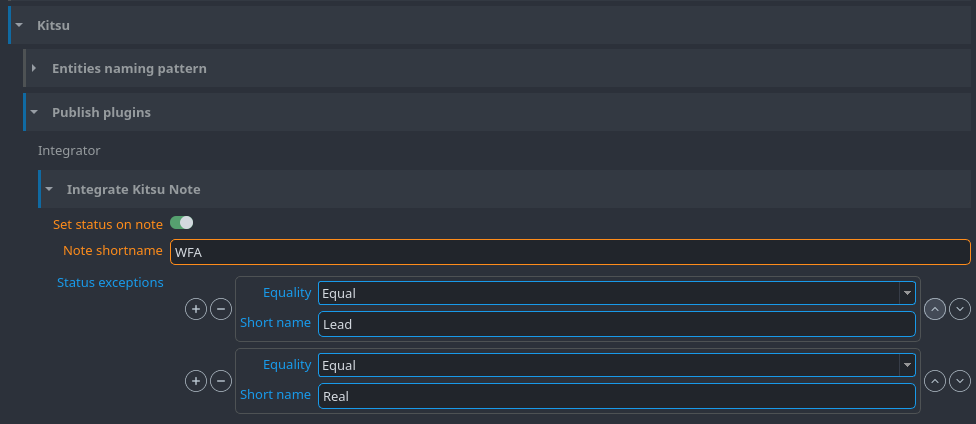
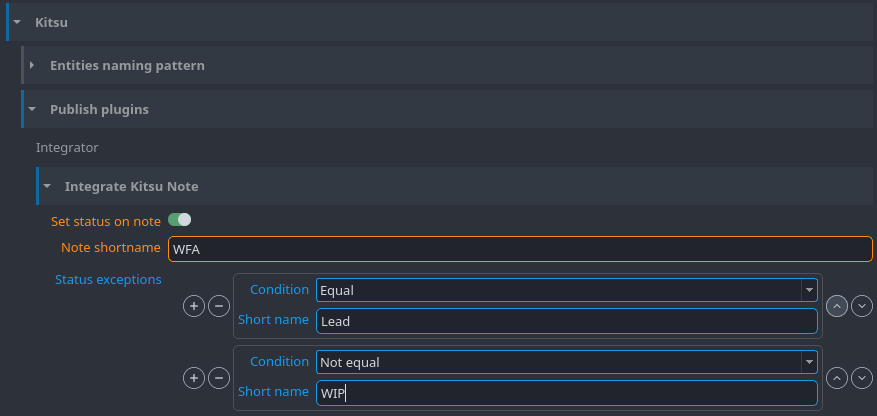
Renaming Equality into Condition, new screenshot with both equal and not equal shown on it

diff --git a/openpype/modules/kitsu/plugins/publish/integrate_kitsu_note.py b/openpype/modules/kitsu/plugins/publish/integrate_kitsu_note.py
@@ -32,10 +32,10 @@ class IntegrateKitsuNote(pyblish.api.ContextPlugin):
                 False
                 for status_except in self.status_exceptions
                 if shortname == status_except["short_name"].upper()
-                and status_except["equality"] == "equal"
+                and status_except["condition"] == "equal"
                 or
                 shortname != status_except["short_name"].upper()
-                and status_except["equality"] == "not_equal"
+                and status_except["condition"] == "not_equal"
             ),
             True,
         ):

diff --git a/website/docs/module_kitsu.md b/website/docs/module_kitsu.md
@@ -46,7 +46,7 @@ Task status can be automatically set during publish thanks to `Integrate Kitsu N
 There are three settings available:
 - `Set status on note` -> turns on and off this integrator.
 - `Note shortname` -> Which status shortname should be set automatically (Case sensitive).
-- `Status exceptions` -> Exceptions for which task status should be left unchanged. You can add as many exceptions as you like. There are two fields to each exceptions: `Equality` (Whether current status should be equal or not equal to the exception status) and `Short name` (Shortname of the exception status).
+- `Status exceptions` -> Exceptions for which task status should be left unchanged. You can add as many exceptions as you like. There are two fields to each exceptions: `Condition` (Whether current status should be equal or not equal to the exception status) and `Short name` (Shortname of the exception status).
 
 ![Integrate Kitsu Note project settings](assets/integrate_kitsu_note_settings.png)
 
